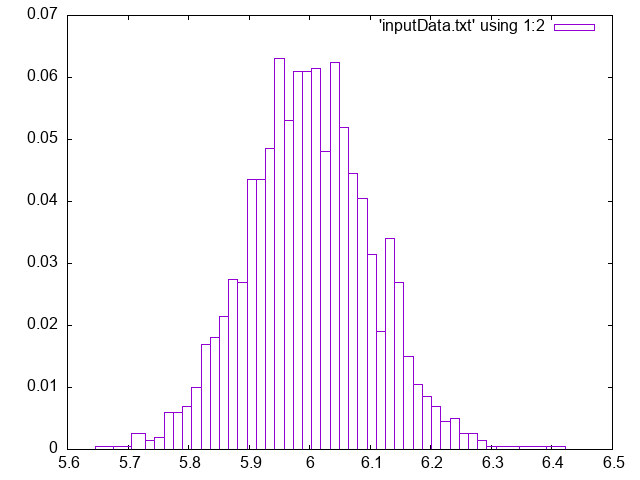
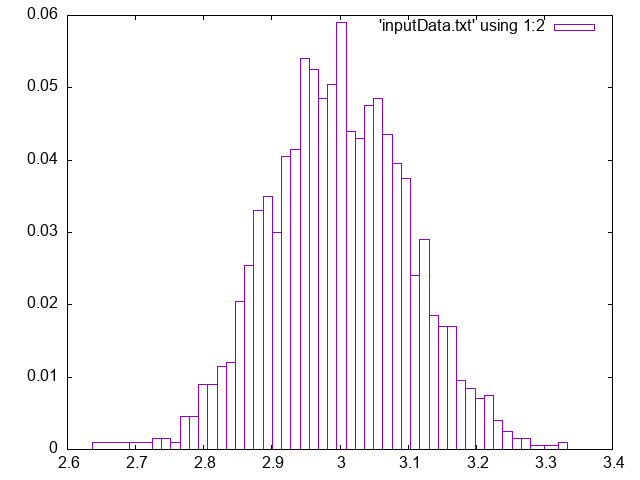
still strange output

diff --git a/mcmc2.cpp b/mcmc2.cpp
@@ -36,19 +36,8 @@ public:
         int batchSize)
       : DIM(dim), noiseStddev(noiseStddev), lowBound(lowBd),
         upperBound(upperBd), batchSize(batchSize) {
-    // trueParams = generateRandomVector(DIM, lowBound, upperBound);
     trueParams = {1.0, 2.0, 3.0};
   }
-
-  // Функция модели, которую будем использовать для генерации данных
-  double function(const std::vector<double> &x) const {
-    double result = 0.0;
-    for (int i = 0; i < x.size(); ++i) {
-      result += x[i]; // Простая линейная модель
-    }
-    return result;
-  }
-
   // Генерация данных с добавлением шума
   std::vector<double> getData() {
     if (DATA.empty()) {
@@ -57,22 +46,41 @@ public:
       std::normal_distribution<> noise(0.0, noiseStddev); // Нормальный шум
 
       std::vector<double> data;
-      double function_value = function(trueParams);
+      std::vector<double> function_value = function(trueParams);
       for (int i = 0; i < batchSize; ++i) {
-        data.push_back(function_value + noise(gen));
+        data.push_back(
+            function_value[0] +
+            noise(gen)); // Используем только первое значение из вектора
       }
       DATA = data;
     }
     return DATA;
   }
 
+  // Функция модели, которая возвращает вектор значений
+  std::vector<double> function(const std::vector<double> &x) const {
+    std::vector<double> result;
+    // x1 + x2
+    result.push_back(x[0] + x[1]);
+    // x1 * x2
+    result.push_back(x[0] * x[1]);
+    // x2 * x3
+    result.push_back(x[1] * x[2]);
+    return result;
+  }
+
+
   // Потенциальная энергия с использованием данных
   double U(const std::vector<double> &x,
            const std::vector<double> &data) const {
     double sum = 0.0;
+    std::vector<double> predicted =
+        function(x); // Получаем вектор предсказанных значений
+
+    // Используем только первое значение для оценки
     for (int i = 0; i < data.size(); ++i) {
-      double predicted = function(x);    // Прогнозируемое значение
-      double diff = data[i] - predicted; // Разница с измерением
+      double diff =
+          data[i] - predicted[0]; // Сравниваем с первым значением в векторе
       sum += (diff * diff) / (2.0 * noiseStddev * noiseStddev); // Правдоподобие
     }
     return sum; // Потенциальная энергия
@@ -106,9 +114,11 @@ public:
   std::vector<double> gradient(const std::vector<double> &x,
                                const std::vector<double> &data) const {
     std::vector<double> grad(DIM, 0.0);
+    std::vector<double> predicted =
+        function(x); // Получаем вектор предсказанных значений
+
     for (int i = 0; i < data.size(); ++i) {
-      double predicted = function(x);    // Прогнозируемое значение
-      double diff = data[i] - predicted; // Разница с измерением
+      double diff = data[i] - predicted[0]; // Используем только первое значение
       for (int j = 0; j < DIM; ++j) {
         grad[j] += -diff * 1.0 / (noiseStddev * noiseStddev); // Градиент по x
       }
@@ -242,9 +252,9 @@ void plotHistogram(const std::string &filename) {
 
 int main() {
   int dim = 3;              // Количество параметров
-  int num_samples = 500;    // Количество выборок
+  int num_samples = 200;    // Количество выборок
   int num_steps = 1000;     // Количество шагов интегрирования
-  double epsilon = 0.0001;  // Шаг по времени
+  double epsilon = 0.001;  // Шаг по времени
   double noiseStddev = 0.1; // Стандартное отклонение шума
   double lowBound = -5.0;
   double upperBound = 5.0;
@@ -254,6 +264,7 @@ int main() {
 
   // Инициализация начального вектора
   std::vector<double> initial_x = std::vector<double>(dim, 0.0);
+
   // Запуск HMC
   std::vector<std::vector<double>> samples =
       hmc(model, initial_x, num_samples, epsilon, num_steps);
@@ -277,5 +288,6 @@ int main() {
 
   // Строим гистограмму с использованием gnuplot
   plotHistogram("inputData");
+
   return 0;
 }
